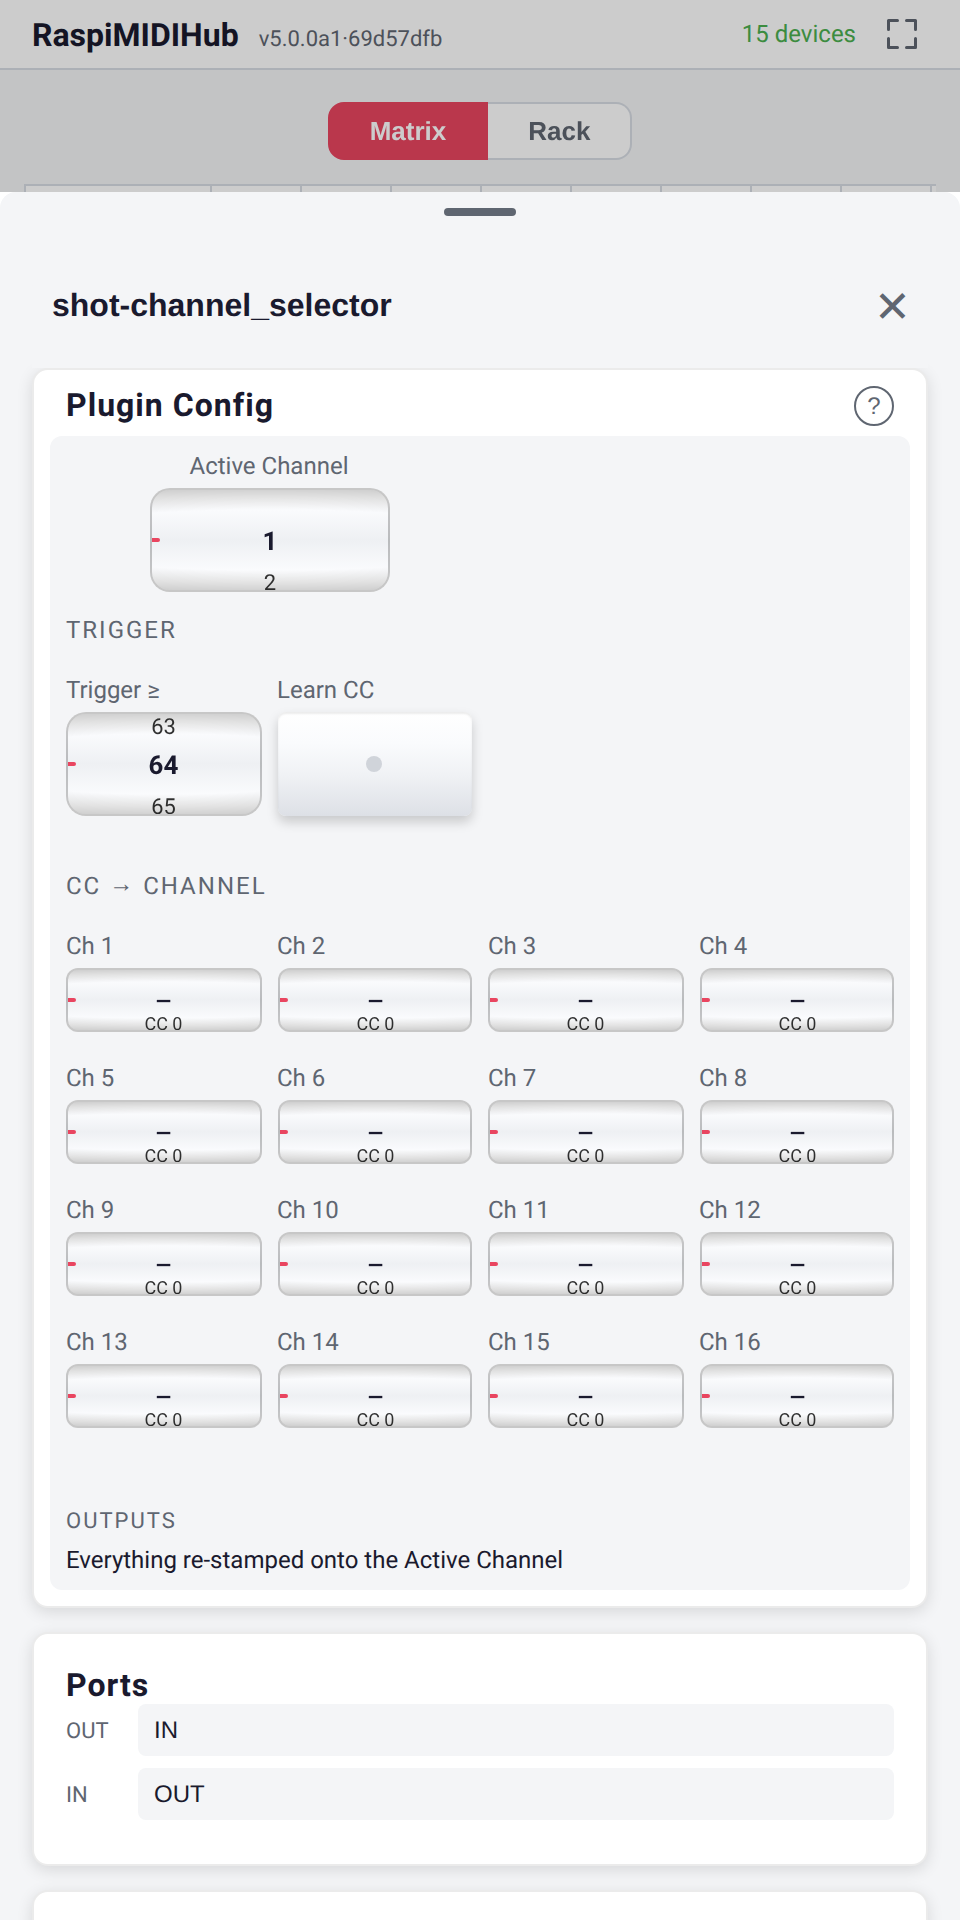
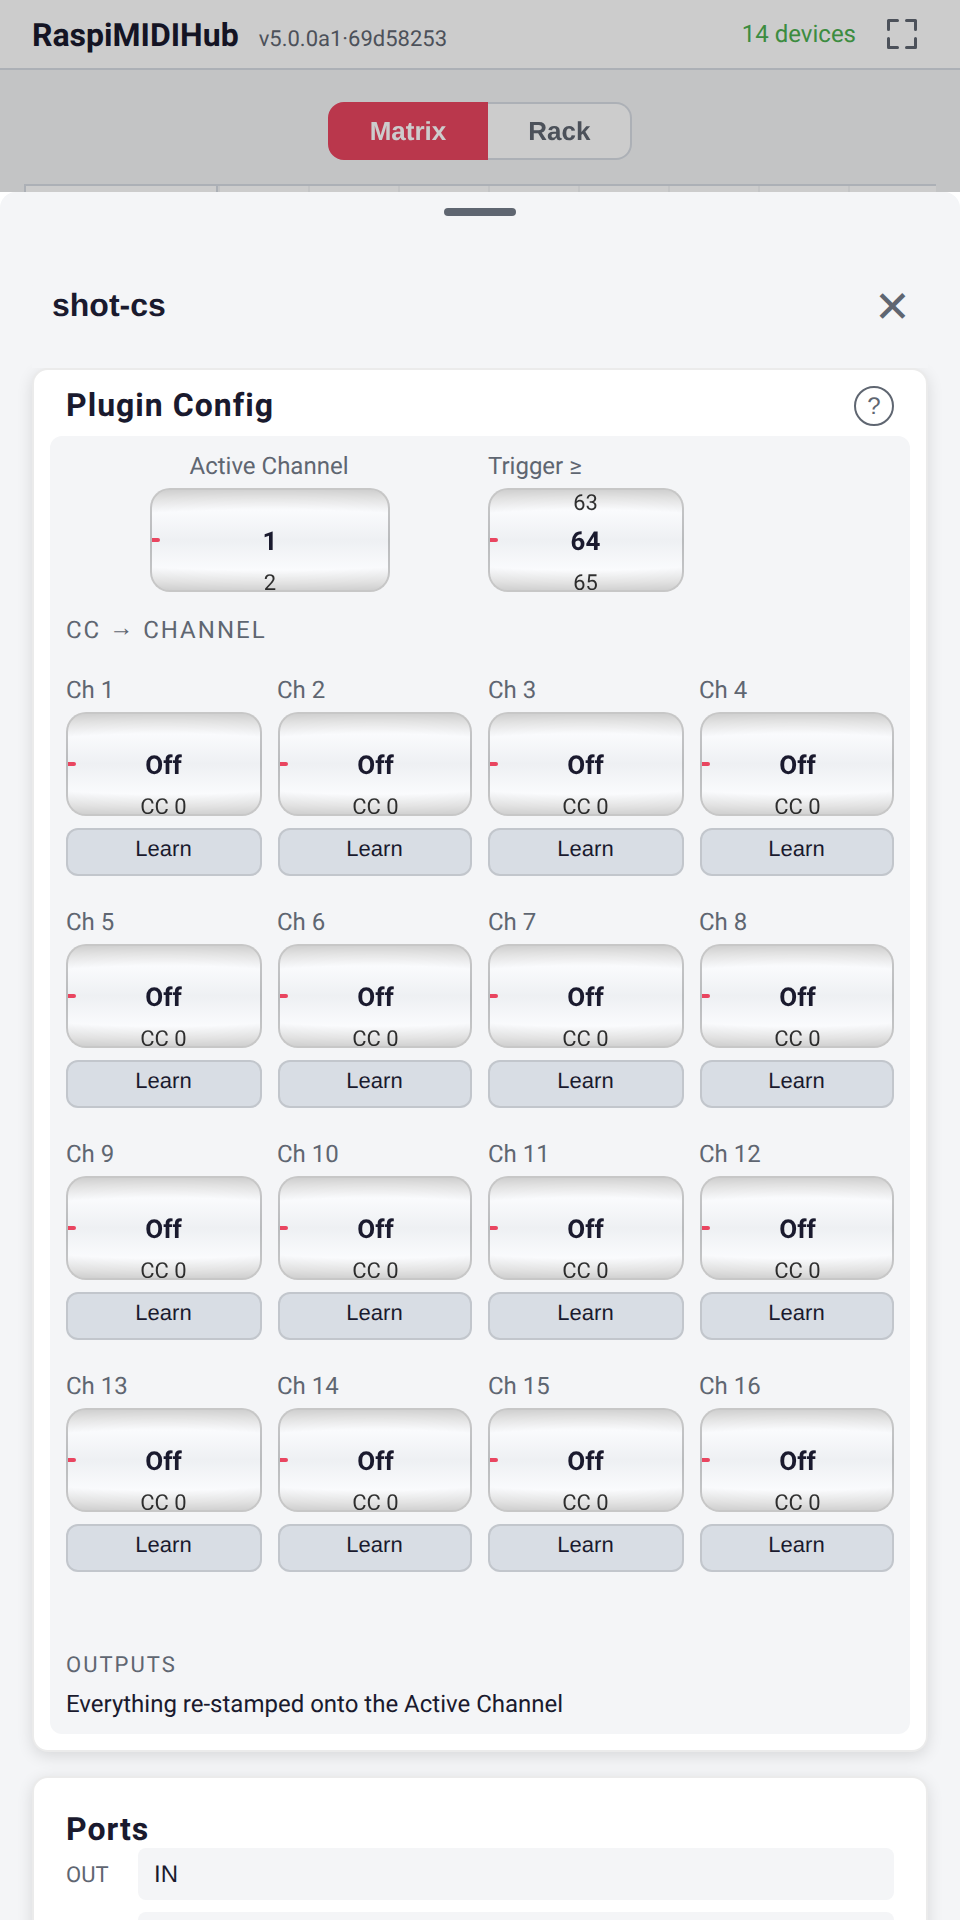
channel-selector: per-slot CC Learn instead of a global one
A single global "Learn → Active Ch" button was useless here — the
Nektar fires several distinct momentary CCs, one per channel. Add a
dedicated CCSelect control (a CC-number wheel with its own inline
MIDI-Learn that captures the next CC off the midi-activity stream,
mirroring NoteSelect) and give every one of the 16 channel slots its
own Learn. Drops all the global-learn arming state from the plugin —
learn now lives entirely in the control. Slot value -1 = Off.

Manual param table + screenshot updated; tests adjusted to the new
(CC-is-the-value, -1=Off) semantics + CC 0 vs Off boundary.

diff --git a/src/raspimidihub/static/components/ccselect.js b/src/raspimidihub/static/components/ccselect.js
@@ -1,0 +1,141 @@
+/**
+ * CCSelect plugin control — a wheel of CC numbers with an inline
+ * MIDI-Learn button. Mirrors NoteSelect, but the labels read "Off" /
+ * "CC n" and Learn captures the next CC (not note) from midi-activity.
+ *
+ * Value semantics: -1 = unbound ("Off"), 0..127 = CC number.
+ */
+
+import { html, tickFeedback, thudFeedback } from './common.js';
+import { useState, useEffect, useRef } from '../lib/hooks.module.js';
+
+const ccLabel = (v) => (v < 0 ? 'Off' : `CC ${v}`);
+
+export function PluginCCSelect({ name, label, value, onChange }) {
+    const containerRef = useRef(null);
+    const innerRef = useRef(null);
+    const TICK_H = 20;
+    const CENTER = 26 - TICK_H / 2;
+    const MIN = -1;
+    const MAX = 127;
+    const s = useRef({
+        value, offset: 0, startY: 0, startOffset: 0, lastY: 0, lastT: 0,
+        velocity: 0, animId: null, atBoundary: false, lastWheel: 0,
+    }).current;
+
+    const valueToTickIndex = (v) => v - MIN;
+    const valueToOffset = (v) => CENTER - valueToTickIndex(v) * TICK_H;
+    const offsetToValue = (off) => Math.round((CENTER - off) / TICK_H) + MIN;
+    const minOffset = valueToOffset(MAX);
+    const maxOffset = valueToOffset(MIN);
+    const clampOffset = (off) => Math.max(minOffset, Math.min(maxOffset, off));
+    const clampValue = (v) => Math.max(MIN, Math.min(MAX, v));
+
+    const updateTicks = () => {
+        const el = innerRef.current;
+        if (!el) return;
+        const idx = valueToTickIndex(s.value);
+        for (let i = 0; i < el.children.length; i++) {
+            const dist = Math.abs(i - idx);
+            el.children[i].className = 'wheel-tick' + (dist === 0 ? ' active' : dist === 1 ? ' near' : '');
+        }
+    };
+    const setOffset = (off) => { s.offset = off; if (innerRef.current) innerRef.current.style.transform = `translateY(${off}px)`; };
+    const snapToValue = () => {
+        const target = valueToOffset(s.value);
+        const snap = () => { s.offset += (target - s.offset) * 0.3; setOffset(s.offset); if (Math.abs(target - s.offset) > 0.5) s.animId = requestAnimationFrame(snap); else setOffset(target); };
+        if (Math.abs(target - s.offset) < 0.5) { setOffset(target); return; } s.animId = requestAnimationFrame(snap);
+    };
+
+    useEffect(() => { s.value = value; setOffset(valueToOffset(value)); updateTicks(); }, [value]);
+
+    useEffect(() => {
+        const el = containerRef.current; if (!el) return;
+        function onStart(e) {
+            if (e.button === 2) return;
+            e.preventDefault(); e.stopPropagation();
+            if (s.animId) { cancelAnimationFrame(s.animId); s.animId = null; }
+            s.atBoundary = false; const pt = e.touches ? e.touches[0] : e;
+            s.startY = pt.clientY; s.startOffset = s.offset; s.lastY = pt.clientY; s.lastT = Date.now(); s.velocity = 0;
+            el.addEventListener('touchmove', onMove, { passive: false }); el.addEventListener('mousemove', onMove);
+            window.addEventListener('touchend', onEnd); window.addEventListener('mouseup', onEnd);
+        }
+        function onMove(e) {
+            e.preventDefault(); e.stopPropagation(); const pt = e.touches ? e.touches[0] : e;
+            const now = Date.now(); const dt = now - s.lastT; if (dt > 0) s.velocity = (pt.clientY - s.lastY) / dt;
+            s.lastY = pt.clientY; s.lastT = now; let raw = s.startOffset + (pt.clientY - s.startY);
+            const clamped = clampOffset(raw); if (raw !== clamped && !s.atBoundary) { thudFeedback(); s.velocity = 0; s.atBoundary = true; } else if (raw === clamped) s.atBoundary = false;
+            s.offset = clamped; const nv = offsetToValue(s.offset);
+            if (nv !== s.value) { tickFeedback(); s.value = nv; updateTicks(); onChange(name, nv); } setOffset(s.offset);
+        }
+        function onEnd(e) {
+            if (e) e.stopPropagation();
+            el.removeEventListener('touchmove', onMove); el.removeEventListener('mousemove', onMove);
+            window.removeEventListener('touchend', onEnd); window.removeEventListener('mouseup', onEnd);
+            if (Math.abs(s.velocity) > 0.2) { const friction = 0.95; function frame() { s.velocity *= friction; let raw = s.offset + s.velocity * 16; const cl = clampOffset(raw); if (raw !== cl) { s.offset = cl; s.velocity = 0; thudFeedback(); setOffset(s.offset); snapToValue(); return; } s.offset = cl; const nv = offsetToValue(s.offset); if (nv !== s.value) { tickFeedback(); s.value = nv; updateTicks(); onChange(name, nv); } setOffset(s.offset); if (Math.abs(s.velocity) > 0.05) s.animId = requestAnimationFrame(frame); else snapToValue(); } s.animId = requestAnimationFrame(frame); }
+            else snapToValue();
+        }
+        function onWheel(e) {
+            e.preventDefault();
+            const now = Date.now(); if (now - s.lastWheel < 80) return; s.lastWheel = now;
+            if (s.animId) { cancelAnimationFrame(s.animId); s.animId = null; }
+            const delta = e.deltaY > 0 ? -1 : 1;
+            const nv = clampValue(s.value + delta);
+            if (nv !== s.value) { s.value = nv; setOffset(valueToOffset(nv)); updateTicks(); onChange(name, nv); (nv === MIN || nv === MAX) ? thudFeedback() : tickFeedback(); }
+        }
+        el.addEventListener('touchstart', onStart, { passive: false });
+        el.addEventListener('mousedown', onStart);
+        el.addEventListener('wheel', onWheel, { passive: false });
+        return () => {
+            el.removeEventListener('touchstart', onStart);
+            el.removeEventListener('mousedown', onStart);
+            el.removeEventListener('wheel', onWheel);
+        };
+    }, [name]);
+
+    // Learn: open a fresh SSE, subscribe to midi-activity (the per-view
+    // subscription model means an unsubscribed stream gets nothing), then
+    // take the next CC we see. 10 s timeout so a forgotten "Listening…"
+    // doesn't sit live forever.
+    const [learning, setLearning] = useState(false);
+    useEffect(() => {
+        if (!learning) return;
+        const es = new EventSource('/api/events');
+        let connId = null;
+        const onConn = (e) => {
+            try {
+                connId = JSON.parse(e.data).conn_id;
+                fetch('/api/sse/subscribe', {
+                    method: 'POST',
+                    headers: {'Content-Type': 'application/json'},
+                    body: JSON.stringify({ conn_id: connId, events: ['midi-activity'], instances: [] }),
+                }).catch(() => {});
+            } catch {}
+        };
+        const onMidi = (e) => {
+            try {
+                const d = JSON.parse(e.data);
+                if (d.cc != null) {
+                    onChange(name, d.cc);
+                    setLearning(false);
+                }
+            } catch {}
+        };
+        es.addEventListener('connection', onConn);
+        es.addEventListener('midi-activity', onMidi);
+        const t = setTimeout(() => setLearning(false), 10000);
+        return () => { es.close(); clearTimeout(t); };
+    }, [learning]);
+
+    const ticks = [];
+    for (let i = MIN; i <= MAX; i++) {
+        ticks.push(html`<div class="wheel-tick" key=${i}>${ccLabel(i)}</div>`);
+    }
+    return html`<div class="wheel-group">
+        ${label ? html`<span class="wheel-label">${label}</span>` : null}
+        <div class="wheel-container" ref=${containerRef}><div class="wheel-inner" ref=${innerRef}>${ticks}</div></div>
+        <button class="btn-learn-inline ${learning ? 'btn-held' : ''}" onclick=${() => setLearning(l => !l)}>
+            ${learning ? 'Listening…' : 'Learn'}
+        </button>
+    </div>`;
+}

diff --git a/src/raspimidihub/static/components/renderparam.js b/src/raspimidihub/static/components/renderparam.js
@@ -14,6 +14,7 @@ import { PluginStepEditor } from './stepeditor.js';
 import { PluginCartesianGrid } from './cartesiangrid.js';
 import { PluginCurveEditor } from './curveeditor.js';
 import { PluginNoteSelect } from './noteselect.js';
+import { PluginCCSelect } from './ccselect.js';
 import { PluginChannelSelect } from './channelselect.js';
 import { PluginGroup } from './group.js';
 import { PluginLayoutGrid } from './layoutgrid.js';
@@ -116,6 +117,10 @@ export function renderParam(param, values, onChange, allValues, displayCtx) {
             return html`<${PluginNoteSelect} name=${param.name} label=${param.label}
                 value=${val != null ? val : param.default || 60} onChange=${onChange}
                 learnable=${param.learnable !== false} onBindRequest=${onBind} />`;
+        case 'ccselect':
+            return html`<${PluginCCSelect} name=${param.name} label=${param.label}
+                value=${val != null ? val : (param.default != null ? param.default : -1)}
+                onChange=${onChange} />`;
         case 'channelselect':
             return html`<${PluginChannelSelect} name=${param.name} label=${param.label}
                 value=${val != null ? val : (param.default != null ? param.default : 1)}
@@ -173,7 +178,7 @@ export function renderParam(param, values, onChange, allValues, displayCtx) {
     }
 }
 
-export const INLINE_TYPES = new Set(['wheel', 'knob', 'fader', 'noteselect', 'channelselect', 'button', 'display', 'xypad']);
+export const INLINE_TYPES = new Set(['wheel', 'knob', 'fader', 'noteselect', 'ccselect', 'channelselect', 'button', 'display', 'xypad']);
 
 function isInline(p) {
     return INLINE_TYPES.has(p.type);

diff --git a/tests/test_channel_selector.py b/tests/test_channel_selector.py
@@ -55,14 +55,10 @@ def _flatten(params):
     return out
 
 
-def test_default_labels_cover_off_plus_128_ccs():
+def test_slots_default_to_unbound():
     p, _ = _make()
-    # value 0 -> "—", value 128 -> "CC 127"
-    from raspimidihub_plugin_channel_selector import _CC_LABELS  # noqa
-    assert _CC_LABELS[0] == "—"
-    assert _CC_LABELS[1] == "CC 0"
-    assert _CC_LABELS[128] == "CC 127"
-    assert len(_CC_LABELS) == 129
+    for n in range(1, 17):
+        assert p.get_param(f"cc_ch{n}") == -1
 
 
 def test_input_channel_ignored_notes_restamped_to_active():
@@ -74,7 +70,7 @@ def test_input_channel_ignored_notes_restamped_to_active():
 
 def test_selector_cc_switches_active_and_is_swallowed():
     p, sent = _make()
-    p._param_values["cc_ch2"] = 22  # Ch 2 bound to CC 21 (value 22 -> CC 21)
+    p._param_values["cc_ch2"] = 21  # Ch 2 bound to CC 21
     p.on_cc(channel=0, cc=21, value=127)
     assert p.get_param("active_ch") == 2
     assert sent["cc"] == []  # selector CC must not pass through
@@ -82,7 +78,7 @@ def test_selector_cc_switches_active_and_is_swallowed():
 
 def test_selector_release_below_threshold_swallowed_no_switch():
     p, sent = _make()
-    p._param_values["cc_ch3"] = 31  # CC 30
+    p._param_values["cc_ch3"] = 30  # CC 30 -> Ch 3
     p._param_values["active_ch"] = 1
     p.on_cc(channel=0, cc=30, value=0)  # release
     assert p.get_param("active_ch") == 1  # no switch on release
@@ -96,10 +92,27 @@ def test_unbound_cc_passes_through_on_active_channel():
     assert sent["cc"] == [(3, 74, 64)]
 
 
+def test_cc_zero_does_not_match_unbound_slots():
+    # Off is -1, not 0 — so CC 0 must pass through, not match a default slot.
+    p, sent = _make()
+    p._param_values["active_ch"] = 2
+    p.on_cc(channel=0, cc=0, value=127)
+    assert p.get_param("active_ch") == 2       # no spurious switch
+    assert sent["cc"] == [(1, 0, 127)]         # CC 0 forwarded
+
+
+def test_cc_zero_is_a_valid_binding():
+    p, sent = _make()
+    p._param_values["cc_ch5"] = 0  # Ch 5 bound to CC 0
+    p.on_cc(channel=0, cc=0, value=127)
+    assert p.get_param("active_ch") == 5
+    assert sent["cc"] == []
+
+
 def test_note_off_returns_to_original_channel_after_switch():
     p, sent = _make()
     p._param_values["active_ch"] = 1
-    p._param_values["cc_ch8"] = 51  # CC 50 -> Ch 8
+    p._param_values["cc_ch8"] = 50  # CC 50 -> Ch 8
     p.on_note_on(channel=0, note=64, velocity=100)   # held on ch 1 (0-based 0)
     p.on_cc(channel=0, cc=50, value=127)             # switch to ch 8
     p.on_note_off(channel=0, note=64)
@@ -113,20 +126,6 @@ def test_velocity_zero_note_on_is_note_off():
     p.on_note_on(channel=0, note=60, velocity=100)
     p.on_note_on(channel=0, note=60, velocity=0)  # running-status note off
     assert sent["notes_off"] == [(1, 60)]
-
-
-def test_learn_captures_next_cc_into_active_channel_slot():
-    p, sent = _make()
-    p._param_values["active_ch"] = 6
-    p.on_param_change("learn", True)   # arm
-    p.on_cc(channel=0, cc=42, value=127)
-    # value 43 stored => CC 42
-    assert p.get_param("cc_ch6") == 43
-    assert sent["cc"] == []            # captured CC not forwarded
-    # next press of that CC now switches (slot is bound)
-    p._param_values["active_ch"] = 1
-    p.on_cc(channel=0, cc=42, value=127)
-    assert p.get_param("active_ch") == 6
 
 
 def test_pitchbend_and_pc_restamped():

diff --git a/plugins/channel_selector/__init__.py b/plugins/channel_selector/__init__.py
@@ -9,10 +9,7 @@ arpeggiator, a Euclidean voice, ...). The "Active Channel" wheel mirrors
 the live selection, giving the visual feedback the controller lacks.
 """
 
-from raspimidihub.plugin_api import Button, Group, PluginBase, Wheel
-
-# Wheel value 0 = "off" (no CC bound), value v>=1 = CC number (v - 1).
-_CC_LABELS = ["—"] + [f"CC {i}" for i in range(128)]
+from raspimidihub.plugin_api import CCSelect, Group, PluginBase, Wheel
 
 
 class ChannelSelector(PluginBase):
@@ -32,9 +29,9 @@ sent on. Wire your routing matrix's channel filters downstream as usual
 and the buttons now choose the destination.
 
 The "Active Channel" wheel always shows the current selection (and can
-be scrolled by hand as an override). To bind a button: scroll Active
-Channel to the target, tap "Learn CC", then press the button on the
-controller — its CC is captured into that channel's slot.
+be scrolled by hand as an override). To bind a button: tap "Learn" under
+the channel's slot, then press the button on the controller — its CC is
+captured into that slot. Each slot has its own Learn.
 
 Selector CCs are swallowed (never forwarded); any other CC passes through
 on the active channel."""
@@ -45,13 +42,9 @@ on the active channel."""
     params = [
         Wheel("active_ch", "Active Channel", min=1, max=16, default=1,
               wide=True, span=2),
-        Group("Trigger", [
-            Wheel("threshold", "Trigger ≥", min=1, max=127, default=64),
-            Button("learn", "Learn CC", trigger=True, color="blue"),
-        ]),
+        Wheel("threshold", "Trigger ≥", min=1, max=127, default=64),
         Group("CC → Channel", [
-            Wheel(f"cc_ch{n}", f"Ch {n}", min=0, max=128, default=0,
-                  labels=_CC_LABELS, mini=True)
+            CCSelect(f"cc_ch{n}", f"Ch {n}", default=-1)
             for n in range(1, 17)
         ], config_only=True),
     ]
@@ -62,8 +55,6 @@ on the active channel."""
         # a channel switch still gets its Note Off on the original channel
         # (no stuck notes on the channel we just left).
         self._held: dict[int, int] = {}
-        # Armed by tapping "Learn CC"; the next incoming CC is captured.
-        self._armed = False
 
     # --- helpers ---
 
@@ -72,22 +63,17 @@ on the active channel."""
         return int(self.get_param("active_ch") or 1) - 1
 
     def _channel_for_cc(self, cc: int) -> int | None:
-        """1-based channel whose slot is bound to this CC, or None."""
+        """1-based channel whose slot is bound to this CC, or None.
+        Slot value -1 = unbound; 0..127 = the bound CC number."""
         for n in range(1, 17):
-            v = int(self.get_param(f"cc_ch{n}") or 0)
-            if v >= 1 and (v - 1) == cc:
+            v = self.get_param(f"cc_ch{n}")
+            if v is not None and v >= 0 and v == cc:
                 return n
         return None
 
     # --- handlers ---
 
     def on_cc(self, channel, cc, value):
-        if self._armed and value > 0:
-            target = int(self.get_param("active_ch") or 1)
-            self.set_param(f"cc_ch{target}", cc + 1)  # +1: 0 = unbound sentinel
-            self._armed = False
-            self.set_param("learn", False)
-            return
         slot_ch = self._channel_for_cc(cc)
         if slot_ch is not None:
             # A bound selector button: switch on a real press, but always
@@ -99,10 +85,6 @@ on the active channel."""
                 self.set_param("active_ch", slot_ch, persist=False)
             return
         self.send_cc(self._out_ch(), cc, value)
-
-    def on_param_change(self, name, value):
-        if name == "learn" and value:
-            self._armed = True
 
     def on_note_on(self, channel, note, velocity):
         if velocity == 0:

diff --git a/src/raspimidihub/plugin_api.py b/src/raspimidihub/plugin_api.py
@@ -226,6 +226,21 @@ class NoteSelect(Param):
 
 
 @dataclass
+class CCSelect(Param):
+    """Wheel of CC numbers (Off, CC 0..127) with an inline MIDI-Learn
+    button. Learn captures the next incoming CC from the midi-activity
+    stream. Value -1 = unbound ("Off"); 0..127 = CC number."""
+    default: int = -1  # Off / unbound
+    learnable: bool = True
+
+    def to_dict(self) -> dict:
+        d = super().to_dict()
+        d["default"] = self.default
+        d["learnable"] = self.learnable
+        return d
+
+
+@dataclass
 class ChannelSelect(Param):
     """Wheel for MIDI channel 1-16. Set `allow_any=True` to add a
     leading "Any" tick at value 0 — used by channel filters where 0

diff --git a/docs/manual/A-appendix-plugin-reference.md b/docs/manual/A-appendix-plugin-reference.md
@@ -195,15 +195,14 @@ channel filter in the routing matrix decides where the signal goes.
 | Parameter | Type | Range | Default |
 |-----------|------|-------|---------|
 | **Active Channel** | Wheel | 1--16 | 1 |
-| Trigger -- **Trigger ≥** | Wheel | 1--127 | 64 |
-| Trigger -- **Learn CC** | Button (trigger) | -- | -- |
-| CC → Channel -- **Ch 1**..**Ch 16** | Wheel | --, CC 0--127 | -- (unbound) |
+| **Trigger ≥** | Wheel | 1--127 | 64 |
+| CC → Channel -- **Ch 1**..**Ch 16** | CCSelect | Off, CC 0--127 | Off (unbound) |
 
 **Active Channel** mirrors the live selection and can be scrolled by
 hand as a manual override; a live button press updates it without
-marking the config dirty. **Learn CC**: scroll Active Channel to the
-target, tap Learn, then press the button on the controller -- its CC
-is captured into that channel's slot. Slots left at "--" are unbound.
+marking the config dirty. Each **Ch** slot has its own **Learn** button:
+tap it, then press the button on the controller -- the next incoming CC
+is captured into that slot. Slots left at "Off" are unbound.
 
 A note held while you switch channels still receives its Note Off on
 the channel it started on, so a mid-phrase switch leaves no stuck note.